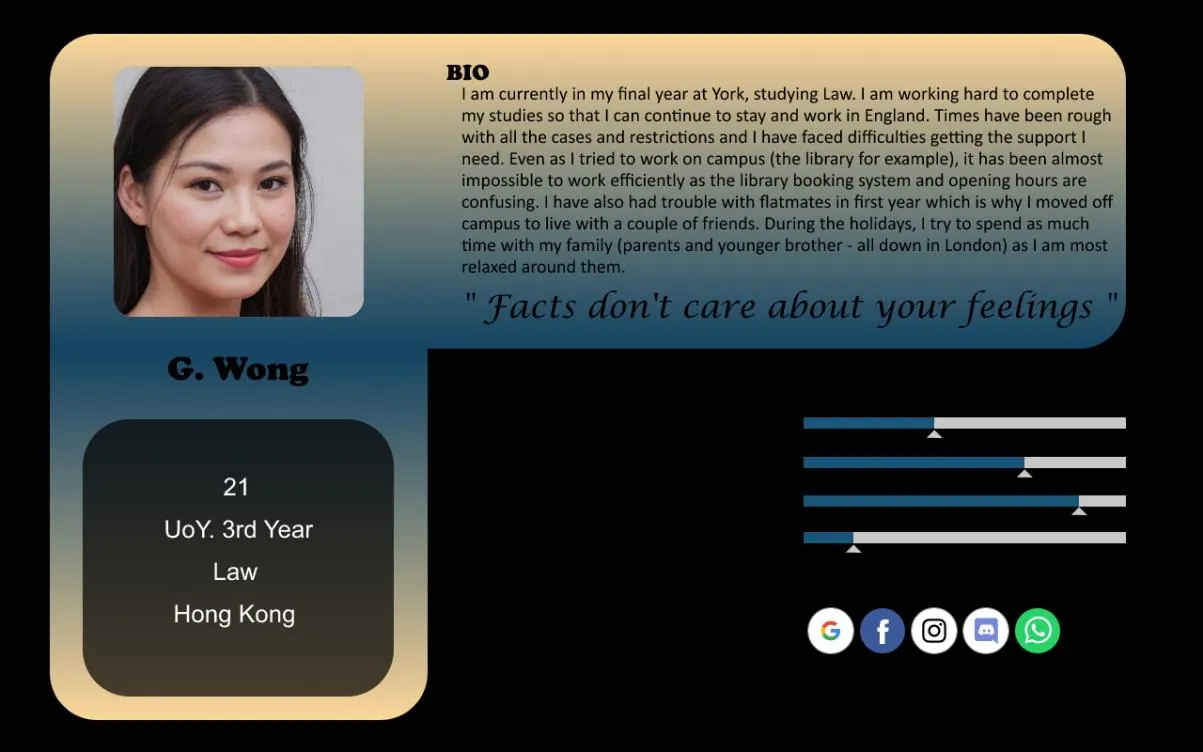
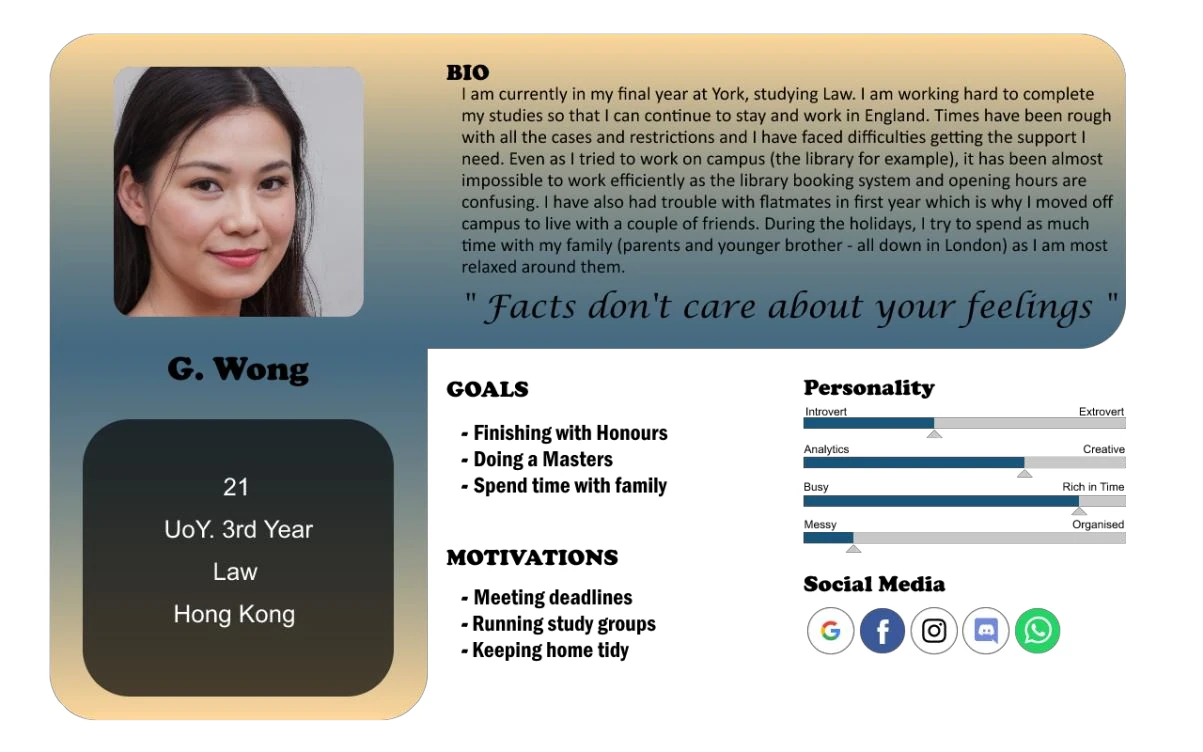
UoY: restore white backgrounds on persona and journey map images
The original extraction dropped the PDF's transparency masks, which
turned the backgrounds black and hid the black text.

Claude-Session: https://claude.ai/code/session_011oRArHcDhwaLahqJbfusqa

diff --git a/uoy.html b/uoy.html
@@ -70,8 +70,8 @@
           </ul>
           <figure class="figs frame zoom"><img src="assets/uoy/affinity.webp" alt="Mural에서 색으로 나눈 어피니티 맵" width="1191" height="539" loading="lazy"><figcaption>응답을 Mural에서 어피니티 매핑으로 묶고, 페르소나 3종(조교수, 국제 학부생, 타 대학 석사생)과 여정지도 3종을 만들었습니다.</figcaption></figure>
           <div class="figs two zoom">
-            <figure><img src="assets/uoy/persona-grace.webp" alt="국제 학부생 페르소나" width="1203" height="752" loading="lazy"></figure>
-            <figure><img src="assets/uoy/journey-tony.webp" alt="조교수 페르소나의 하루 여정지도" width="1203" height="752" loading="lazy"></figure>
+            <figure><img src="assets/uoy/persona-grace.webp?v=2" alt="국제 학부생 페르소나" width="1203" height="752" loading="lazy"></figure>
+            <figure><img src="assets/uoy/journey-tony.webp?v=2" alt="조교수 페르소나의 하루 여정지도" width="1203" height="752" loading="lazy"></figure>
           </div>
         </div>
       </section>
